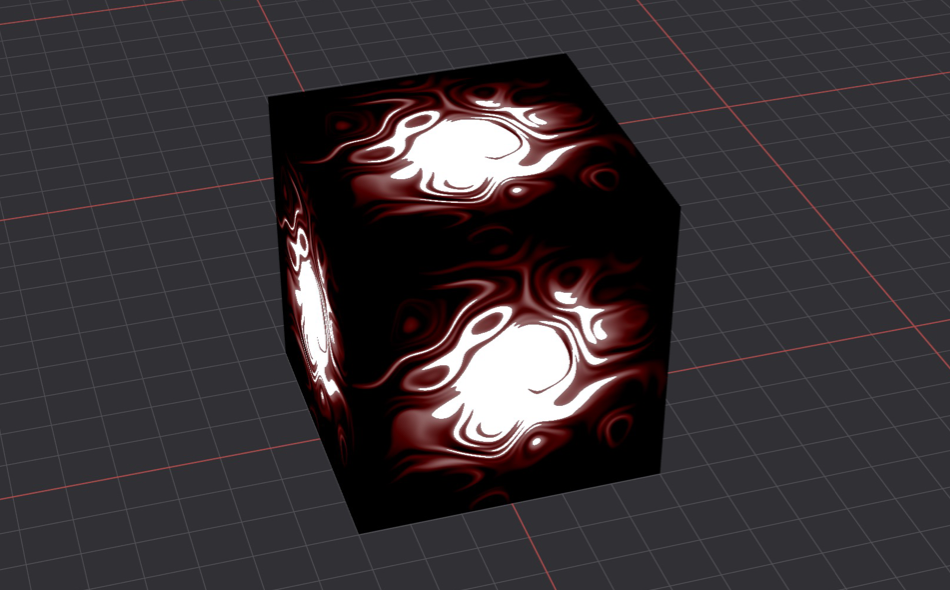
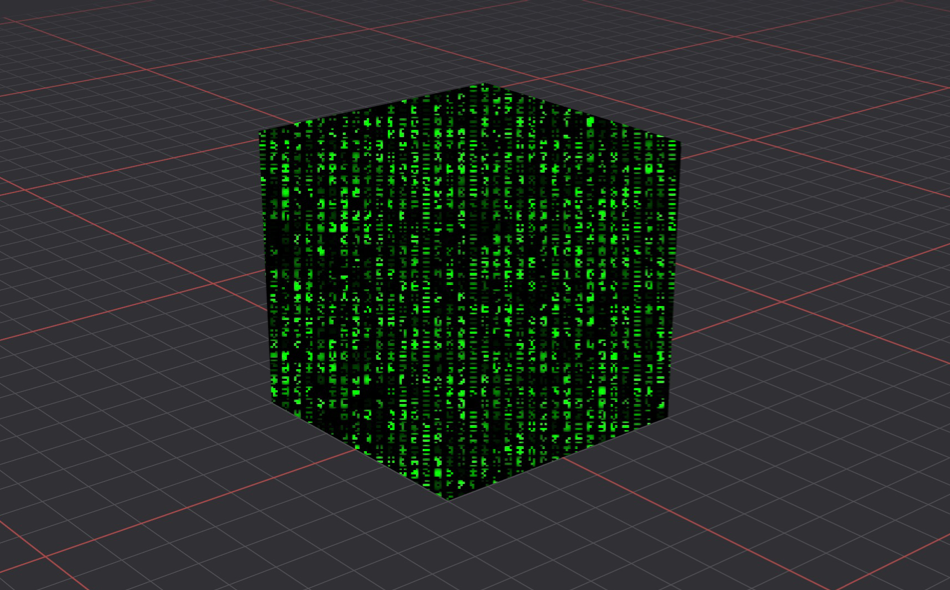
change to use matrixShader

diff --git a/src/pages/sample-03.jsx b/src/pages/sample-03.jsx
@@ -2,31 +2,31 @@ import * as THREE from 'three'
 import { useRef } from 'react'
 import { useFrame, extend } from '@react-three/fiber'
 import { shaderMaterial, OrbitControls, Html, Grid, Center } from '@react-three/drei'
-import portalVertexShader from '../shaders/portal/vertex.glsl'
-import portalFragmentShader from '../shaders/portal/fragment.glsl'
+import vertexShader from '../shaders/matrix/vertex.glsl'
+import fragmentShader from '../shaders/matrix/fragment.glsl'
 import DefaultGrid from '../components/DefaultGrid.jsx'
 
 // Use `vite-plugin-glsl` to import glsl files,
 // https://github.com/UstymUkhman/vite-plugin-glsl#usage
 
-const PortalMaterial = shaderMaterial(
+const MatrixMaterial = shaderMaterial(
     {
-        uTime: 0,
-        uColorStart: new THREE.Color('#ffffff'),
-        uColorEnd: new THREE.Color('#9d4b4b')
+        u_mouse: { x: window.innerWidth / 2, y: window.innerHeight / 2 },
+        u_resolution: { x: window.innerWidth, y: window.innerHeight },
+        u_time: 0.0 
     },
-    portalVertexShader,
-    portalFragmentShader
+    vertexShader,
+    fragmentShader
 )
 
-extend({ PortalMaterial })
+extend({ MatrixMaterial })
 
 export default function Sample03() {
 
-    const portalMaterial = useRef()
+    const matrixMaterial = useRef()
 
     useFrame((state, delta) => {
-        portalMaterial.current.uTime += delta
+        matrixMaterial.current.u_time += delta
     })
 
     return <>
@@ -34,7 +34,7 @@ export default function Sample03() {
         <Center top>
             <mesh scale={3}>
                 <boxGeometry />
-                <portalMaterial ref={portalMaterial} />
+                <matrixMaterial ref={matrixMaterial} />
             </mesh>
         </Center>
 
@@ -48,7 +48,7 @@ export default function Sample03() {
             <h3>Sample of</h3>
             <ul>
                 <li>Create custom shader</li>
-                <li>Import glsl files</li>
+                <li>Import shader (glsl) files</li>
                 <li>Animate shader</li>
             </ul>
         </Html>
